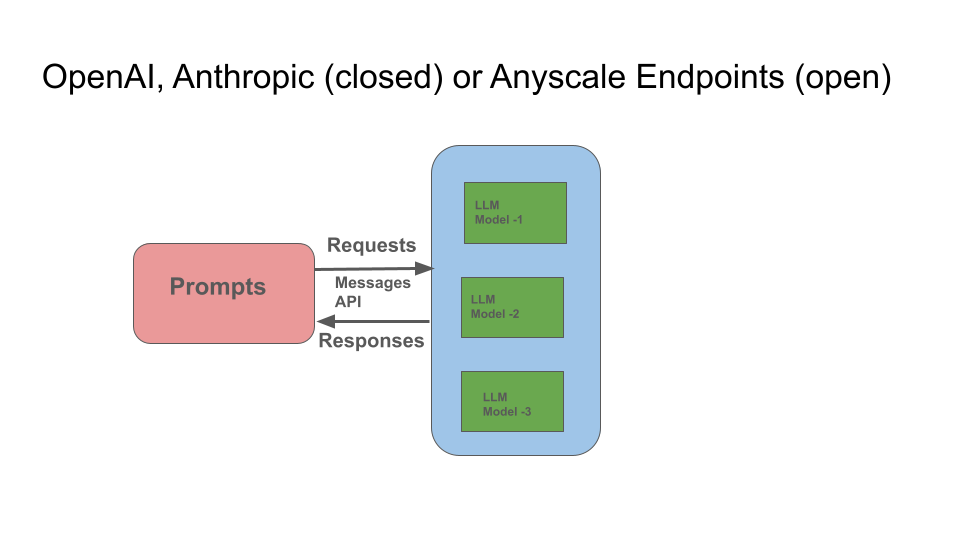
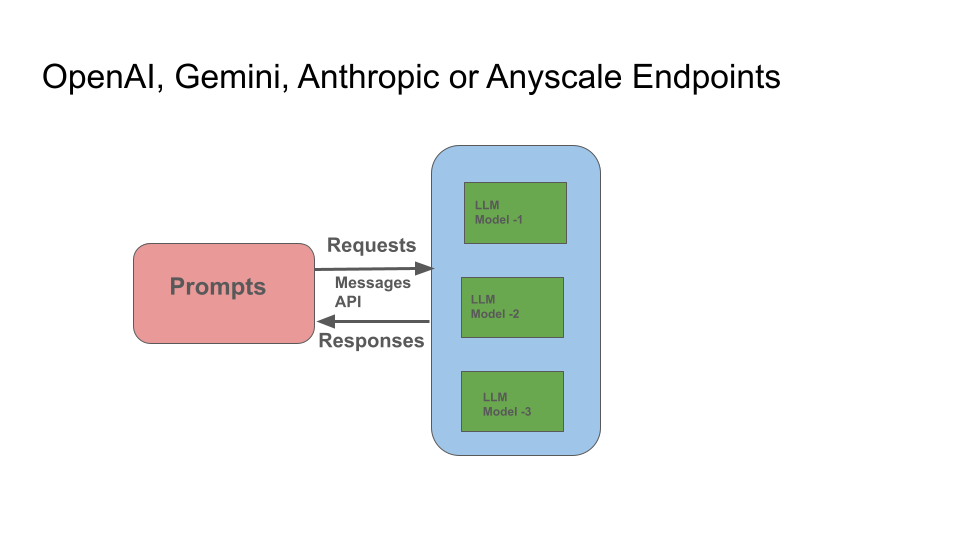
added Google Gemini client, env file, added prompt example in notebook

Changed region(s): [[0.1875, 0.1185, 0.9375, 0.1778]]

diff --git a/llm-prompts/llm_clnt_factory_api.py b/llm-prompts/llm_clnt_factory_api.py
@@ -1,5 +1,7 @@
 from openai import OpenAI
 from anthropic import Anthropic
+import google.generativeai as genai
+
 import ollama
 
 class ClientFactory:
@@ -12,7 +14,10 @@ class ClientFactory:
     def create_client(self, client_name, **kwargs):
         client_class = self.clients.get(client_name)
         if client_class:
-            return client_class(**kwargs)
+            if client_name == 'google':
+                return client_class(kwargs['model_name'])                
+            else:
+                return client_class(**kwargs)
         else:
             raise ValueError(f"Client '{client_name}' not registered.")
 
@@ -37,6 +42,14 @@ def _get_chat_response(clnt: object, model: str, system_content: str, user_conte
     elif isinstance(clnt, ollama.Client):
         chat_response = clnt.chat(model=model,
                 messages=[{"role": "user", 
+                           "content": user_content}])
+        response = chat_response['message']['content']
+        return response
+    elif isinstance(clnt, genai.GenerativeModel):
+        chat_response = clnt.chat(model=model,
+                messages=[{"role": "system", 
+                           "content": system_content},
+                           {"role": "user", 
                            "content": user_content}])
         response = chat_response['message']['content']
         return response
@@ -78,5 +91,19 @@ if __name__ == "__main__":
     client_kwargs = {}
     client = client_factory.create_client(client_type, **client_kwargs) 
     print(client)
+    print("--------------------------")
+
+    # Test Google Generative AI client
+    client_factory.register_client('google', genai.GenerativeModel)
+    client_type = 'google'
+    client_kwargs = {"model_name": "gemini-1.5-flash",
+                     "generation_config": {"temperature": 0.8,
+                                          "api_key": "sk-1234567890abcdef1234567890abcdef",},
+                     "system_instruction": "Please generate a polite to the user prompt. Do not make any answer",
+    }
+
+    client = client_factory.create_client(client_type, **client_kwargs)
+    print(client)
+    print("--------------------------")
     
 

diff --git a/README.md b/README.md
@@ -5,9 +5,9 @@
 
 <img src=images/gen_ai_cookbook_img_1.png>
 
-Welcome to a mixture of Gen AI cookbook **how-to** recipes for Gen AI applications. These simple guides span across get-started examples on LLM prompting strategies, DSPy, building simple chatbots, retrieval generation augmentation (RAGs), LLM-based applications on OpenAI, Anthropic, or Anyscale Endpoints, etc. 
+Welcome to a mixture of Gen AI cookbook **how-to** recipes for Gen AI applications. These simple guides span across get-started examples on LLM prompting strategies, DSPy, building simple chatbots, retrieval generation augmentation (RAGs), LLM-based applications on OpenAI, Anthropic, Gemini, or Anyscale Endpoints, etc. 
 
-You'll find examples code and/or guides for common tasks using the OpenAI API, Anthropic, Pinecone, Anyscale Endpoints and [Ray framework](https://www.ray.io/). 
+You'll find examples code and/or guides for common tasks using the OpenAI API, Anthropic, Google Gemini, Pinecone, Anyscale Endpoints and [Ray framework](https://www.ray.io/). 
 
 To try these examples, you'll need an [OpenAI](https://platform.openai.com/docs/introduction) account and an associated API key, [Anthropic](https://docs.anthropic.com/claude/docs/intro-to-claude), [Pinecone](https://www.pinecone.io/pricing/), or an [Anyscale Endpoint](https://www.anyscale.com/get-started) account and an associated key. Even better, install [OLlama](https://ollama.com/) on your laptop. 
 
